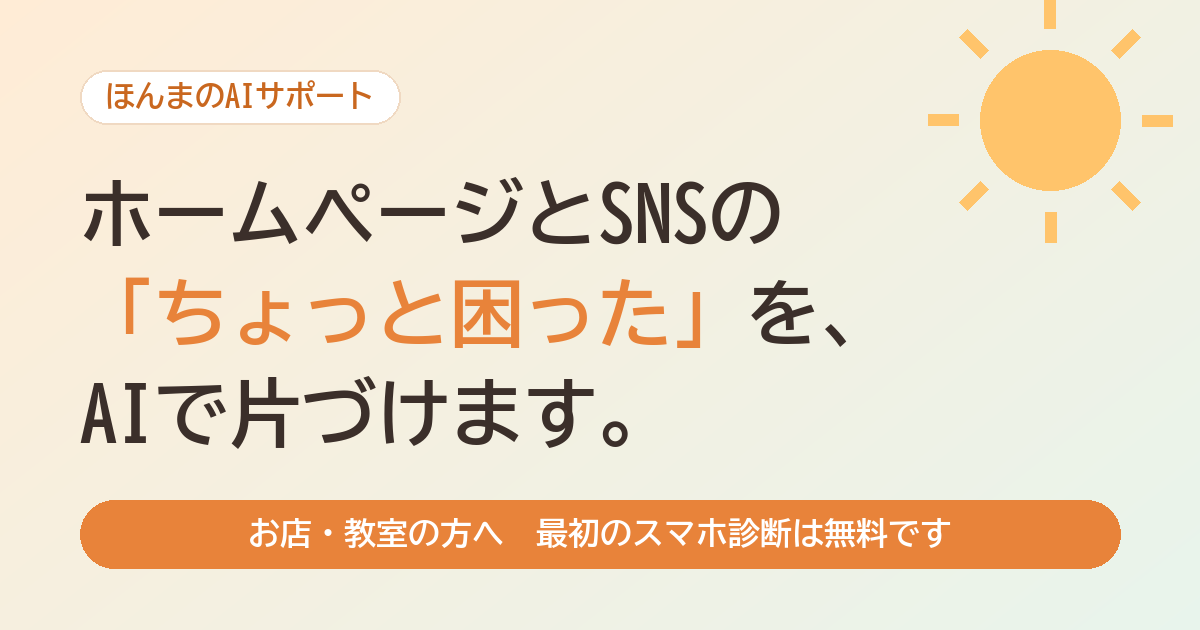
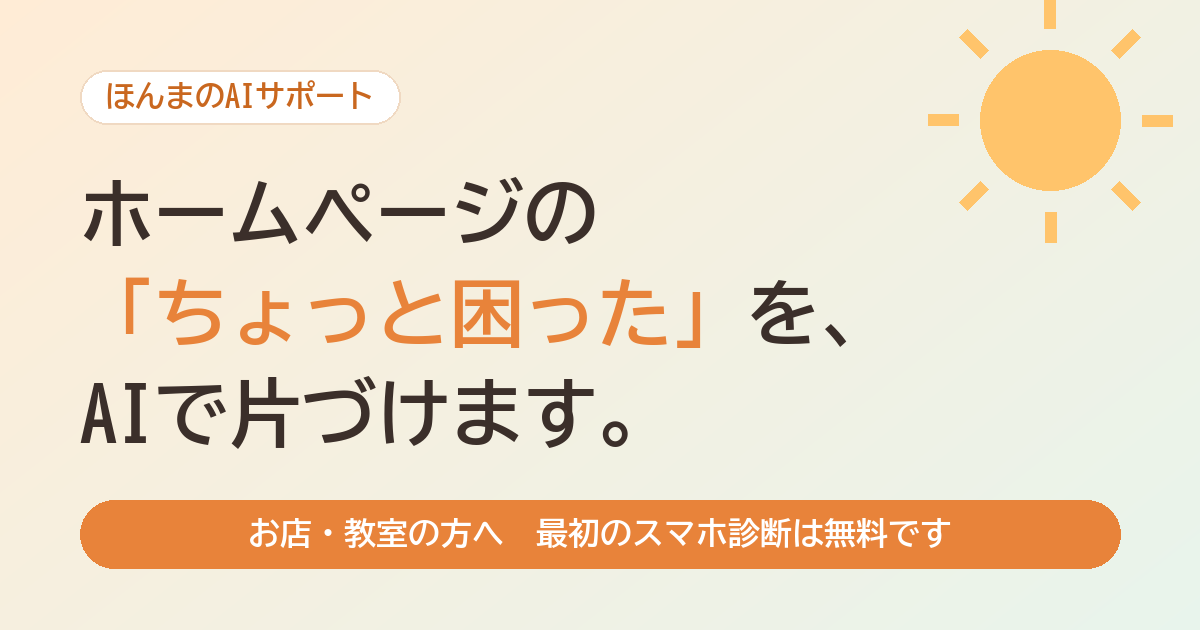
HPに絞る：SNS・写真・書類・表・AI伴走のメニューを外し、ホームページ作り（1ページ20,000円〜／5ページまで50,000円〜）を追加。チラシ第4版と内容をそろえた

Changed region(s): [[0.4317, 0.2714, 0.6475, 0.3921]]

diff --git a/index.html b/index.html
@@ -3,12 +3,12 @@
 <head>
   <meta charset="utf-8">
   <meta name="viewport" content="width=device-width, initial-scale=1">
-  <title>ほんまのAIサポート｜ホームページとSNSの「ちょっと困った」を、AIで</title>
-  <meta name="description" content="お店・教室の方の、ホームページの更新やSNSの投稿を、AIを使ってお手伝いします。最初のスマホ診断は無料です。">
+  <title>ほんまのAIサポート｜ホームページの「ちょっと困った」を、AIで</title>
+  <meta name="description" content="お店・教室の方の、ホームページ作りと更新を、AIを使ってお手伝いします。最初のスマホ診断は無料です。">
   <meta property="og:type" content="website">
   <meta property="og:site_name" content="ほんまのAIサポート">
-  <meta property="og:title" content="ほんまのAIサポート｜ホームページとSNSの「ちょっと困った」を、AIで">
-  <meta property="og:description" content="お店・教室の方の、ホームページの更新やSNSの投稿を、AIを使ってお手伝いします。最初のスマホ診断は無料です。">
+  <meta property="og:title" content="ほんまのAIサポート｜ホームページの「ちょっと困った」を、AIで">
+  <meta property="og:description" content="お店・教室の方の、ホームページ作りと更新を、AIを使ってお手伝いします。最初のスマホ診断は無料です。">
   <meta property="og:url" content="https://osamu-homma-ai.github.io/">
   <meta property="og:image" content="https://osamu-homma-ai.github.io/img/ogp.png">
   <meta property="og:image:width" content="1200">
@@ -29,8 +29,8 @@
     </svg>
     <div class="wrap">
       <a class="brand" href="index.html">ほんまのAIサポート</a>
-      <h1>ホームページとSNSの<br>「ちょっと困った」を、<br>AIで片づけます。</h1>
-      <p class="sub">お店・教室の方の、更新や投稿のお手伝い。<br>スマホで見て、直したほうがいいところを三つ、無料でお伝えします。</p>
+      <h1>ホームページの<br>「ちょっと困った」を、<br>AIで片づけます。</h1>
+      <p class="sub">お店・教室の方の、ページ作りと更新のお手伝い。<br>スマホで見て、直したほうがいいところを三つ、無料でお伝えします。</p>
       <a class="btn" href="#contact">無料診断を申しこむ</a>
       <a class="btn line" href="https://lin.ee/uoYPE5Ua" target="_blank" rel="noopener">LINEで相談</a>
       <ul class="nav">
@@ -50,7 +50,7 @@
         <div class="card"><b>お知らせが古いまま</b><p>何か月も前の情報が、そのままになっている。</p></div>
         <div class="card"><b>スマホで読みにくい</b><p>文字が小さく、メニューや営業時間が探しにくい。</p></div>
         <div class="card"><b>直したいけれど高い</b><p>作った業者に頼むと費用がかかるので、そのままにしている。</p></div>
-        <div class="card"><b>SNSが止まっている</b><p>何を書けばいいか、わからない。</p></div>
+        <div class="card"><b>ホームページがまだない</b><p>お店の情報が、Googleマップくらいでしか見つからない。</p></div>
       </div>
     </section>
 
@@ -60,14 +60,9 @@
       <table>
         <tr><th>スマホでの見え方の診断<small>直したほうがよいところを三つ、紙一枚でお伝えします</small></th><td class="price">無料（初回）</td></tr>
         <tr><th>はじめてセット<small>診断で見つけた三か所を、まとめて直します</small></th><td class="price">8,000円〜</td></tr>
-        <tr><th>更新の代行（1回）<small>お知らせ・営業時間・メニューなどを直します</small></th><td class="price">5,000円〜</td></tr>
+        <tr><th>更新の代行（1回）<small>お知らせ・営業時間・メニュー、Googleマップのお店の情報などを直します</small></th><td class="price">5,000円〜</td></tr>
         <tr><th>毎月の更新プラン<small>月4回まで、ご連絡いただいた更新を代行</small></th><td class="price">5,000円〜／月</td></tr>
-        <tr><th>SNSの投稿文<small>X やインスタ用の短い投稿文を10本</small></th><td class="price">5,000円〜</td></tr>
-        <tr><th>写真の整理と画像づくり<small>名前をそろえ、SNSやチラシ用の大きさに（50枚まで）</small></th><td class="price">5,000円〜</td></tr>
-        <tr><th>書類の整理<small>Word や PDF をまとめて一覧に</small></th><td class="price">5,000円〜</td></tr>
-        <tr><th>売上・予約の表のまとめ<small>集計とグラフ、「わかったこと」のメモ</small></th><td class="price">10,000円〜</td></tr>
-        <tr><th>一枚だけのページ<small>イベント・体験会・新メニューなど、目的を一つにしぼったページ</small></th><td class="price">30,000円〜</td></tr>
-        <tr><th>AI活用の30日伴走<small>お店の方がAIに仕事を頼めるようになるまで、毎日一つずつ一緒に</small></th><td class="price">30,000円〜</td></tr>
+        <tr><th>ホームページ作り<small>スマホで見やすい、お店・教室のページ（1ページ 20,000円〜／5ページまで 50,000円〜）</small></th><td class="price">20,000円〜</td></tr>
       </table>
     </section>
 
@@ -87,9 +82,7 @@
     <section id="works">
       <h2>これまでに作ったもの</h2>
       <ul class="career">
-        <li>写真300枚以上の名前を、撮影日の順に一度で整理</li>
         <li>原稿の誤字・表記ゆれを見つけて、直した場所を一覧に</li>
-        <li>SNS投稿文の文字数を、自動で確かめる仕組み</li>
         <li>自分のホームページを2日で作って公開</li>
         <li>A4のチラシ、提案書、QRコード</li>
       </ul>
